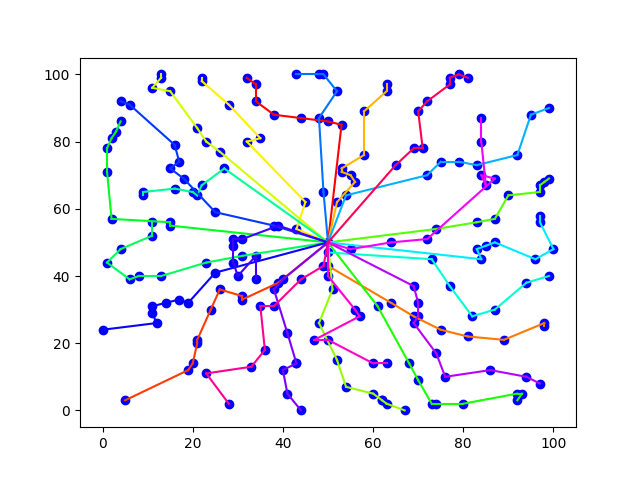
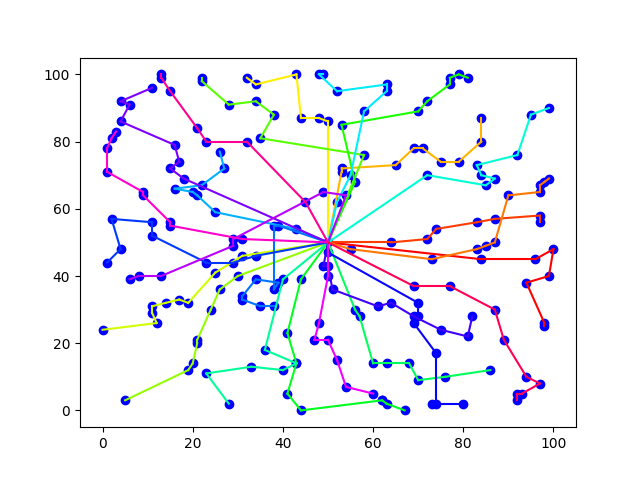
spy's method works correctly

diff --git a/calculateSolution.py b/calculateSolution.py
@@ -1,0 +1,112 @@
+# from VRP_Model import *
+# from VRPMinimumInsertions import *
+# from SolutionDrawer import *
+# from Swaps import *
+# from Relocations import *
+import random, pprint, math
+
+
+class Model:
+    def __init__(self):  # markou, sider
+        self.all_nodes = []  # All the nodes that are included in the model plus the depot
+        self.service_locations = []  # All the locations that have to be served
+        self.time_matrix = []  # Time Matrix created from the distance matrix and the node type.
+        self.capacity = 3000  # Capacity of the Vehicles measured in kg (3tn).
+        self.unloading_time_per_type = {  # the time that each type of node needs to unload
+            0: 0,
+            1: 5,
+            2: 15,
+            3: 25
+        }
+        all_nodes = []
+        service_locations = []
+        depot = Node(0, 0, 0, 50, 50)
+        all_nodes.append(depot)
+        random.seed(1)
+        for i in range(0, 200):
+            id = i + 1
+            tp = random.randint(1, 3)
+            dem = random.randint(1, 5) * 100
+            xx = random.randint(0, 100)
+            yy = random.randint(0, 100)
+            serv_node = Node(id, tp, dem, xx, yy)
+            all_nodes.append(serv_node)
+            service_locations.append(serv_node)
+
+        dist_matrix = [[0.0 for j in range(0, len(all_nodes))] for k in range(0, len(all_nodes))]
+        for i in range(0, len(all_nodes)):
+            for j in range(0, len(all_nodes)):
+                source = all_nodes[i]
+                target = all_nodes[j]
+                dx_2 = (source.x - target.x) ** 2
+                dy_2 = (source.y - target.y) ** 2
+                dist = round(math.sqrt(dx_2 + dy_2))
+                dist_matrix[i][j] = dist
+        self.dist_matrix = dist_matrix
+        self.all_nodes = all_nodes
+
+    #4.247619047619047
+    routes = [[0, 108, 121, 89, 128, 61, 175, 29],
+              [0, 19, 140, 193, 143, 173, 13, 11],
+              [0, 99, 31, 3, 71, 156, 56, 148, 181, 78, 107],
+              [0, 14, 64, 153, 116, 146, 27, 194, 60, 161],
+              [0, 59, 9, 77, 184, 81, 132],
+              [0, 110, 74, 154, 139, 106, 117, 141, 69, 168],
+              [0, 144, 176, 96, 80, 47, 97, 122, 102],
+              [0, 40, 187, 150, 6, 145, 198, 124],
+              [0, 134, 21, 22, 155, 5, 84, 39, 197],
+              [0, 183, 114, 88, 86, 38, 136, 4, 72, 192],
+              [0, 162, 58, 50, 185, 92, 119, 152, 76],
+              [0, 125, 171, 83, 101, 52, 42, 54],
+              [0, 36, 191, 200, 32, 112, 103, 129, 67],
+              [0, 37, 133, 49, 195, 2, 189, 87, 33],
+              [0, 75, 188, 28, 149, 34, 142, 66, 53],
+              [0, 180, 130, 18, 63, 172, 45, 170, 167, 115],
+              [0, 91, 12, 46, 95, 23, 44, 68, 199],
+              [0, 25, 100, 90, 109, 138, 169, 137, 196],
+              [0, 51, 135, 73, 20, 82, 57, 70, 41, 147],
+              [0, 127, 177, 85, 164, 43, 131, 55, 111],
+              [0, 17, 157, 30, 113, 7, 105, 62],
+              [0, 104, 186, 151, 163, 166, 35, 26],
+              [0, 118, 165, 182, 179, 123, 65, 94, 120, 8],
+              [0, 174, 159, 15, 48, 16, 24, 93],
+              [0, 178, 126, 98, 190, 160, 1, 158, 79, 10]]
+
+    def CalculateMaxSolutionCost(self):  # calculates manually the max cost of a given solution
+
+        routes_times = []  # here we store the cost of each route in terms of time
+
+        for i in range(0, len(self.routes)):
+
+            total_route_distance = 0  # here we store the distance of each route
+            total_route_time = 0
+            for j in range(0, len(self.routes[i]) - 1):
+                total_route_distance = self.dist_matrix[self.routes[i][j]][
+                    self.routes[i][j + 1]]  # here we calculate the distance of each route manually
+
+                total_route_time_without_unload = total_route_distance / 35  # converting distance to time
+
+                unload_time = self.unloading_time_per_type[self.all_nodes[self.routes[i][j + 1]].type]/60
+
+                total_route_time += total_route_time_without_unload + unload_time  # adding the unload cost using the type of each node
+            print(total_route_time)
+            routes_times.append(
+                total_route_time)  # storing the manually calculated time of every route of the given solution
+
+        return max(routes_times)  # return the max time (cost) of the solution
+
+
+class Node:
+    def __init__(self, id, tp, dem, xx, yy):
+        self.id = id
+        self.type = tp
+        self.demand = dem
+        self.x = xx
+        self.y = yy
+
+
+
+
+
+model = Model()
+print(model.CalculateMaxSolutionCost())

diff --git a/TabuCustom.py b/TabuCustom.py
@@ -967,7 +967,7 @@ class TabuCustom:
 
     def TabuSearch(self, operator,shake=False):
         solution_cost_trajectory = []
-        random.seed(5)
+        random.seed(67)
         self.bestSolution = self.cloneSolution(self.sol)
         terminationCondition = False
 
@@ -1038,13 +1038,14 @@ class TabuCustom:
 
             self.addOneToIterator()
 
-            if self.tabuIterator > 13:
+            if self.tabuIterator > 5000:
                 terminationCondition = True
                 self.write_to_file()
         SolDrawer.draw('final_ts', self.bestSolution, self.allNodes)
         SolDrawer.drawTrajectory(solution_cost_trajectory)
 
         self.sol = self.bestSolution
+
 
     def shaking(self):
         i = 0

diff --git a/VRPMinimumInsertions.py b/VRPMinimumInsertions.py
@@ -49,7 +49,7 @@ class SolverMinIns:
         # reloc = Relocations(self)
         # reloc.solveRelocations()
         tabu = TabuCustom.TabuCustom(self)
-        tabu.solveTabu()
+        self.sol = tabu.solveTabu()
 
 
 
@@ -61,7 +61,7 @@ class SolverMinIns:
         for i in range(0, len(sol.routes)):
             rt = sol.routes[i]
             for j in range (0, len(rt.sequenceOfNodes)):
-                print(rt.sequenceOfNodes[j].ID, end=' ')
+                print(rt.sequenceOfNodes[j].ID, end=', ')
             print(rt.cost)
         print (self.sol.max_cost_of_route )
 

diff --git a/Main.py b/Main.py
@@ -11,7 +11,8 @@ for i in range(0,1):
     if sol.max_cost_of_route < best:
         best = sol.max_cost_of_route
         best_i = i
-    print(sol.max_cost_of_route)
+
+s.ReportSolution(sol)
 
 
 end=time.time()
